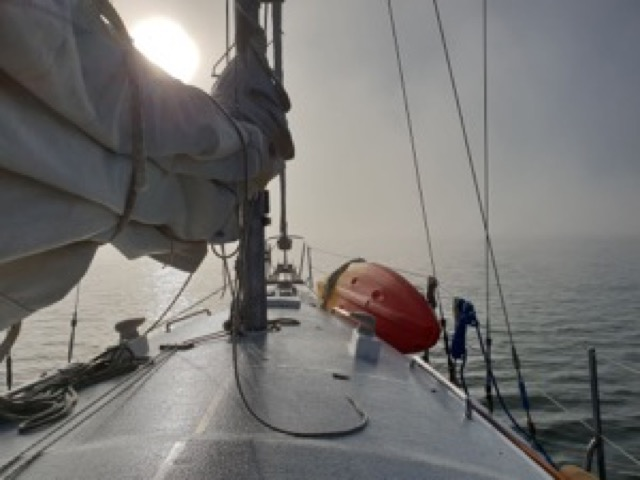
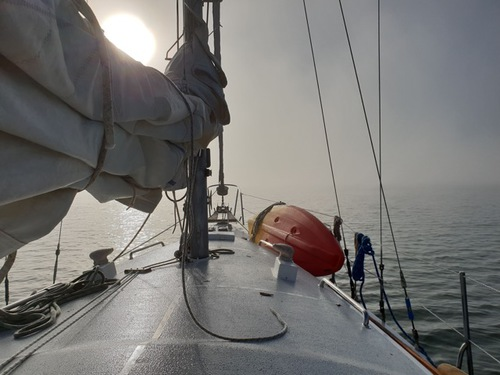
images

diff --git a/src/components/Home.vue b/src/components/Home.vue
@@ -89,7 +89,7 @@
 
           
           <div class="card">
-            <img class="card-img-top" src="../assets/mist_big.jpg" alt="Mist">
+            <img class="card-img-top" src="../assets/mist.jpg" alt="Mist">
             <div class="card-body">
               <h5 class="card-title">Occam in Heavy Mist</h5>
               <p class="card-text">Waitemata Harbour, Auckland</p>
@@ -98,7 +98,7 @@
           </div>
           
           <div class="card">
-            <img class="card-img-top" src="../assets/Mauihook.png" alt="Mauihook">
+            <img class="card-img-top" src="../assets/mauihook.png" alt="Mauihook">
             <div class="card-body">
               <h5 class="card-title">PureWaves Plastic Recycling</h5>
               <p class="card-text">Maui's Hook</p>
